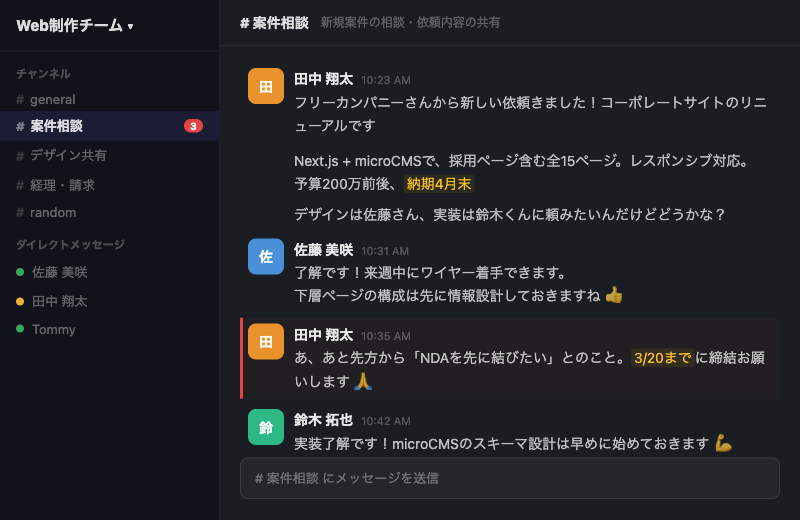
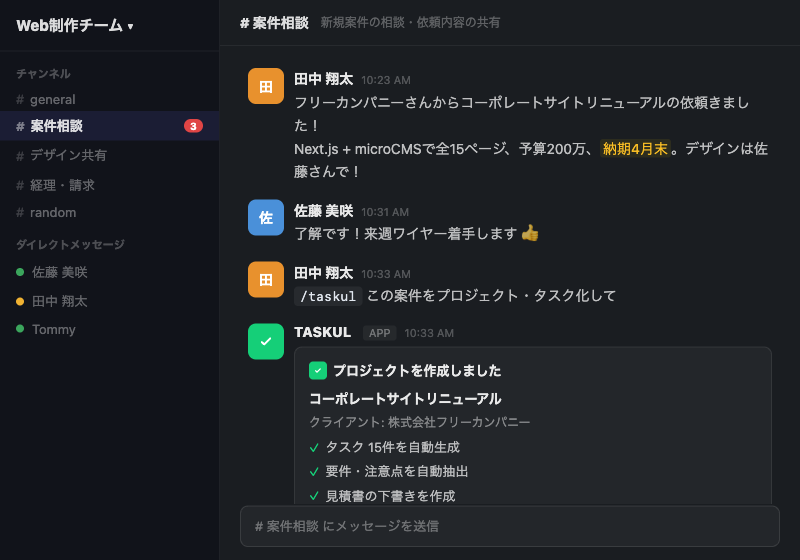
fix: Slack連携セクションを /taskul コマンド体験に修正
- コピペ訴求→Slack内で /taskul コマンドを打つ体験に変更
- モック画像を刷新: 会話→/taskul→TASKULボット応答の流れ
- AI Structuringセクションの説明文も整合性を修正

diff --git a/index.html b/index.html
@@ -664,12 +664,12 @@ a.nav-cta{font-size:.85rem;font-weight:700;color:#fff !important;background:#15c
     <div class="split anim">
       <div class="split-text">
         <p class="headline-eyebrow" style="color:rgba(255,255,255,.4)">Slack Integration</p>
-        <h2 class="headline-large" style="color:#fff">Slackの会話を、<br>コピペするだけ。</h2>
-        <p class="headline-desc" style="margin:0;color:rgba(255,255,255,.5)">クライアントや社内のSlackのやり取りを、TASKULにそのまま貼り付ける。たったそれだけで、案件が動き出します。</p>
+        <h2 class="headline-large" style="color:#fff">Slackから直接、<br>案件が動き出す。</h2>
+        <p class="headline-desc" style="margin:0;color:rgba(255,255,255,.5)">Slackで <span style="font-family:'SF Mono',Monaco,monospace;background:rgba(255,255,255,.08);padding:2px 8px;border-radius:4px;font-size:.9em;color:rgba(255,255,255,.7)">/taskul</span> と打つだけ。会話の文脈をAIが読み解き、プロジェクト・タスク・見積書を自動で構造化します。</p>
         <div class="feat-points" style="margin-top:28px">
-          <div class="feat-point"><span class="feat-point-icon" style="background:rgba(96,165,250,.12)"><svg viewBox="0 0 24 24" style="stroke:#4ade80"><polyline points="20 6 9 17 4 12"/></svg></span><span style="color:rgba(255,255,255,.7)">Slackの長文チャットをそのまま貼るだけ</span></div>
-          <div class="feat-point"><span class="feat-point-icon" style="background:rgba(96,165,250,.12)"><svg viewBox="0 0 24 24" style="stroke:#4ade80"><polyline points="20 6 9 17 4 12"/></svg></span><span style="color:rgba(255,255,255,.7)">複数チャンネルの情報もまとめてOK</span></div>
-          <div class="feat-point"><span class="feat-point-icon" style="background:rgba(96,165,250,.12)"><svg viewBox="0 0 24 24" style="stroke:#4ade80"><polyline points="20 6 9 17 4 12"/></svg></span><span style="color:rgba(255,255,255,.7)">「あのSlackどこだっけ？」がゼロに</span></div>
+          <div class="feat-point"><span class="feat-point-icon" style="background:rgba(96,165,250,.12)"><svg viewBox="0 0 24 24" style="stroke:#4ade80"><polyline points="20 6 9 17 4 12"/></svg></span><span style="color:rgba(255,255,255,.7)">Slackから離れずにプロジェクト作成</span></div>
+          <div class="feat-point"><span class="feat-point-icon" style="background:rgba(96,165,250,.12)"><svg viewBox="0 0 24 24" style="stroke:#4ade80"><polyline points="20 6 9 17 4 12"/></svg></span><span style="color:rgba(255,255,255,.7)">チャンネルの会話をAIが自動で読み解く</span></div>
+          <div class="feat-point"><span class="feat-point-icon" style="background:rgba(96,165,250,.12)"><svg viewBox="0 0 24 24" style="stroke:#4ade80"><polyline points="20 6 9 17 4 12"/></svg></span><span style="color:rgba(255,255,255,.7)">タスク・要件・見積書まで一発で生成</span></div>
           <div class="feat-point"><span class="feat-point-icon" style="background:rgba(96,165,250,.12)"><svg viewBox="0 0 24 24" style="stroke:#4ade80"><polyline points="20 6 9 17 4 12"/></svg></span><span style="color:rgba(255,255,255,.7)">Standard プラン以上で利用可能</span></div>
         </div>
       </div>
@@ -691,7 +691,7 @@ a.nav-cta{font-size:.85rem;font-weight:700;color:#fff !important;background:#15c
       <div class="split-text">
         <p class="headline-eyebrow">AI Structuring</p>
         <h2 class="headline-large">AIが会話を読み解き、<br>案件を自動構造化。</h2>
-        <p class="headline-desc" style="margin:0">貼り付けたSlackの会話から、AIがプロジェクト名・タスク・納期・要件・注意点を自動抽出。見積書の項目まで提案します。</p>
+        <p class="headline-desc" style="margin:0">Slackの会話やクライアントからの依頼文から、AIがプロジェクト名・タスク・納期・要件・注意点を自動抽出。見積書の項目まで提案します。</p>
         <div class="feat-points" style="margin-top:28px">
           <div class="feat-point"><span class="feat-point-icon"><svg viewBox="0 0 24 24"><polyline points="20 6 9 17 4 12"/></svg></span>会話からタスク・要件・注意点を自動分類</div>
           <div class="feat-point"><span class="feat-point-icon"><svg viewBox="0 0 24 24"><polyline points="20 6 9 17 4 12"/></svg></span>納期・予算・担当者も自動検出</div>
